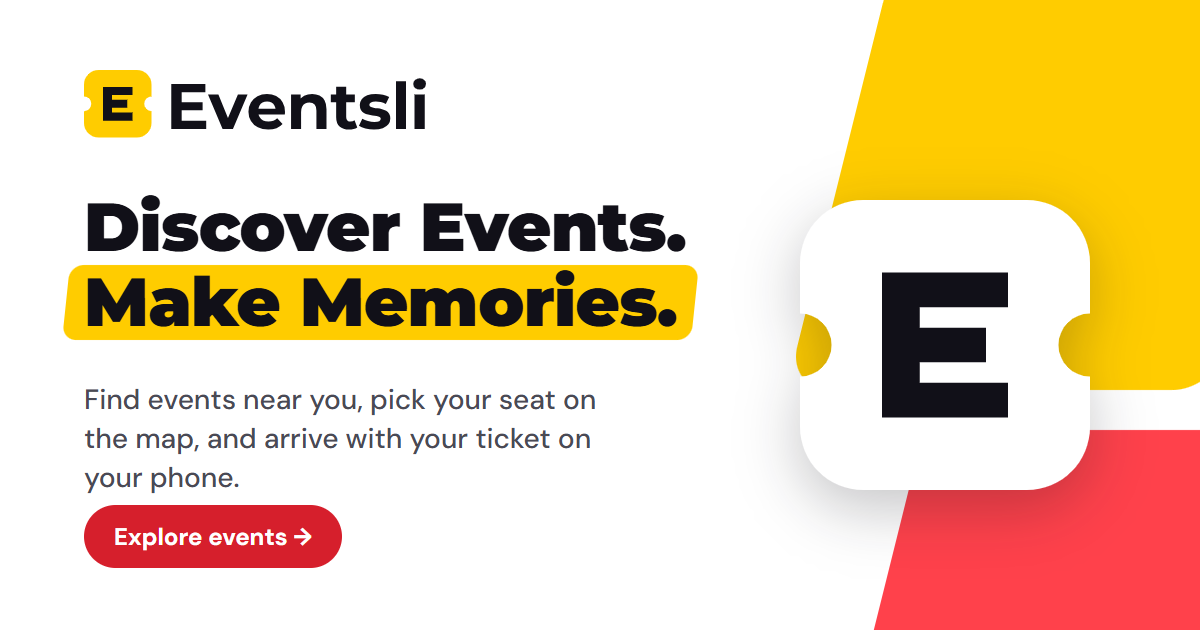
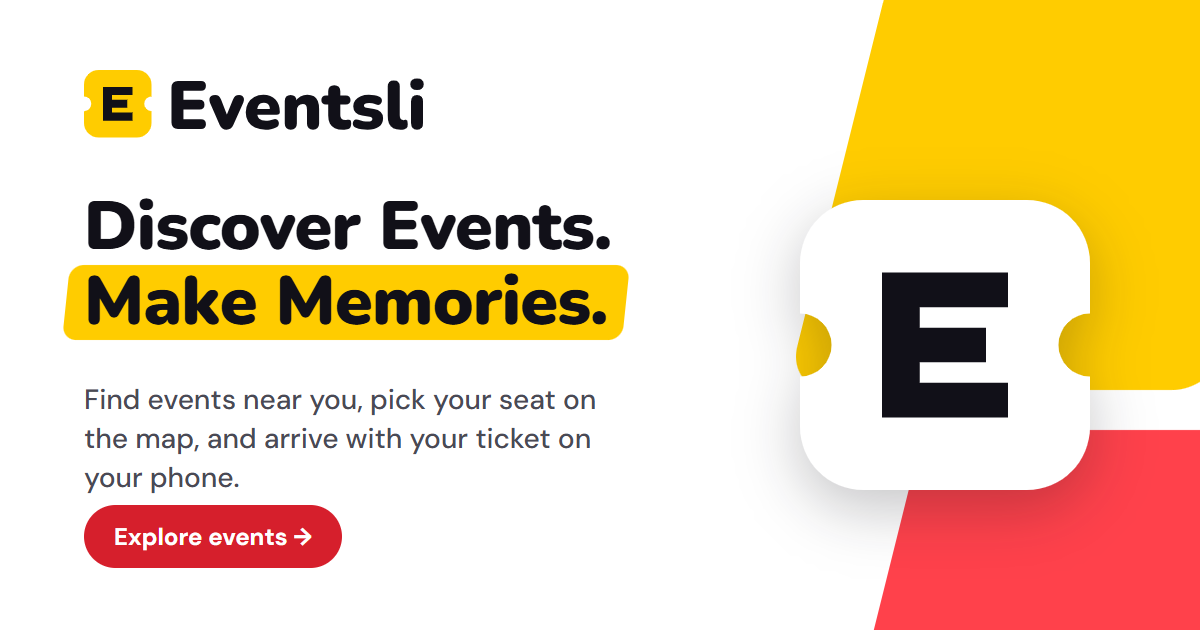
dsghb

Changed region(s): [[0.0617, 0.3016, 0.5858, 0.5429], [0.1542, 0.1206, 0.37, 0.2111]]

diff --git a/frontend/src/app/components/brand/wordmarkPath.js b/frontend/src/app/components/brand/wordmarkPath.js
@@ -1,19 +1,19 @@
 /**
  * The Eventsli wordmark as vector path data.
  *
- * GENERATED by scripts/brandLogo.js from Montserrat Bold, the face the site's
- * headings are set in (2026-11-15). Upright and calm: the E-ticket beside it
- * carries the character. Kept as paths, not text, so the word is the same on a
+ * GENERATED by scripts/brandLogo.js from Nunito Black, the face the site's
+ * headings are set in (2026-11-15). Rounded and friendly, echoing the ticket's
+ * corners. Kept as paths, not text, so the word is the same on a
  * machine without the font and takes its colour from a CSS role.
  *
  * TWO EXPORTS, ONE COLOUR. The word is near-black throughout; it is two paths
  * ("Events" and "li") because the print kit and the tests address the halves,
  * and a two-colour treatment would need nothing but CSS.
  */
-export const WORDMARK_VIEWBOX = '11 -111 554 113';
+export const WORDMARK_VIEWBOX = '8 -105 521 107';
 
 /** E, v, e, n, t, s. */
-export const WORDMARK_EVENTS = 'M87.5 0L11.6 0L11.6-98.0L85.7-98.0L85.7-79.8L34.2-79.8L34.2-18.2L87.5-18.2L87.5 0ZM79.7-40.9L32.5-40.9L32.5-58.5L79.7-58.5L79.7-40.9ZM145.6 0L123.1 0L91.4-75.3L114.0-75.3L140.3-10.5L129.1-10.5L156.4-75.3L177.4-75.3L145.6 0ZM222.3 1.1L222.3 1.1Q209.4 1.1 199.7-3.9Q190.0-9.0 184.7-17.7Q179.3-26.5 179.3-37.7L179.3-37.7Q179.3-49.0 184.6-57.8Q189.8-66.5 198.9-71.5Q208.0-76.4 219.5-76.4L219.5-76.4Q230.6-76.4 239.5-71.8Q248.4-67.1 253.5-58.3Q258.7-49.6 258.7-37.4L258.7-37.4Q258.7-36.1 258.6-34.5Q258.4-32.9 258.3-31.5L258.3-31.5L197.1-31.5L197.1-44.2L246.8-44.2L238.4-40.5Q238.4-46.3 236.0-50.7Q233.7-55.0 229.5-57.5Q225.3-59.9 219.7-59.9L219.7-59.9Q214.1-59.9 209.8-57.5Q205.5-55.0 203.1-50.6Q200.8-46.2 200.8-40.2L200.8-40.2L200.8-36.8Q200.8-30.7 203.5-26.0Q206.2-21.3 211.2-18.8Q216.2-16.4 222.9-16.4L222.9-16.4Q228.9-16.4 233.5-18.2Q238.0-20.0 241.8-23.7L241.8-23.7L253.4-11.1Q248.2-5.2 240.4-2.0Q232.5 1.1 222.3 1.1ZM293.7 0L271.9 0L271.9-75.3L292.7-75.3L292.7-54.5L288.8-60.8Q292.9-68.3 300.4-72.4Q308-76.4 317.7-76.4L317.7-76.4Q326.6-76.4 333.7-72.9Q340.8-69.3 344.8-62.0Q348.9-54.6 348.9-43.1L348.9-43.1L348.9 0L327.0 0L327.0-39.8Q327.0-48.9 323.1-53.2Q319.1-57.5 311.8-57.5L311.8-57.5Q306.6-57.5 302.5-55.4Q298.3-53.2 296.0-48.7Q293.7-44.2 293.7-37.2L293.7-37.2L293.7 0ZM398.0 1.1L398.0 1.1Q384.7 1.1 377.3-5.7Q369.9-12.5 369.9-25.9L369.9-25.9L369.9-92.0L391.7-92.0L391.7-26.2Q391.7-21.4 394.2-18.8Q396.8-16.2 401.1-16.2L401.1-16.2Q406.3-16.2 409.9-19.0L409.9-19.0L415.8-3.6Q412.4-1.3 407.8-0.1Q403.1 1.1 398.0 1.1ZM410.5-58.5L358.3-58.5L358.3-75.3L410.5-75.3L410.5-58.5ZM452.1 1.1L452.1 1.1Q442.4 1.1 433.5-1.2Q424.6-3.5 419.4-7.0L419.4-7.0L426.7-22.7Q431.9-19.5 439.0-17.4Q446.0-15.4 452.9-15.4L452.9-15.4Q460.5-15.4 463.6-17.2Q466.8-19.0 466.8-22.3L466.8-22.3Q466.8-24.9 464.3-26.3Q461.9-27.6 457.8-28.3Q453.7-29.0 448.9-29.7Q444.1-30.4 439.2-31.6Q434.3-32.8 430.2-35.1Q426.2-37.5 423.7-41.6Q421.3-45.6 421.3-52.1L421.3-52.1Q421.3-59.2 425.4-64.7Q429.5-70.1 437.4-73.3Q445.2-76.4 456.1-76.4L456.1-76.4Q463.8-76.4 471.8-74.8Q479.8-73.1 485.1-69.9L485.1-69.9L477.8-54.3Q472.4-57.5 466.8-58.7Q461.3-59.9 456.1-59.9L456.1-59.9Q448.8-59.9 445.5-58.0Q442.1-56.0 442.1-52.9L442.1-52.9Q442.1-50.1 444.6-48.7Q447.0-47.3 451.1-46.5Q455.1-45.6 460.0-45.0Q464.8-44.4 469.7-43.1Q474.6-41.9 478.6-39.6Q482.6-37.2 485.1-33.3Q487.6-29.3 487.6-22.8L487.6-22.8Q487.6-15.8 483.4-10.4Q479.2-5.0 471.3-2.0Q463.4 1.1 452.1 1.1Z';
+export const WORDMARK_EVENTS = 'M69.9 0L22.4 0Q15.8 0 12.4-3.4Q9.0-6.9 9.0-13.3L9.0-13.3L9.0-85.4Q9.0-91.8 12.4-95.3Q15.8-98.7 22.4-98.7L22.4-98.7L69.9-98.7Q74.9-98.7 77.4-96.2Q79.9-93.7 79.9-88.9L79.9-88.9Q79.9-84.0 77.4-81.4Q74.9-78.8 69.9-78.8L69.9-78.8L33.6-78.8L33.6-60.1L66.8-60.1Q71.7-60.1 74.3-57.5Q76.9-55.0 76.9-50.1L76.9-50.1Q76.9-45.2 74.3-42.7Q71.7-40.2 66.8-40.2L66.8-40.2L33.6-40.2L33.6-19.9L69.9-19.9Q74.9-19.9 77.4-17.3Q79.9-14.7 79.9-9.9L79.9-9.9Q79.9-5.0 77.4-2.5Q74.9 0 69.9 0L69.9 0ZM122.2 1.3L122.2 1.3Q117.3 1.3 113.9-1.2Q110.5-3.6 108.2-8.5L108.2-8.5L88.2-54.3Q86.5-58.5 87.1-62.2Q87.6-65.8 90.7-68.0Q93.7-70.1 99.0-70.1L99.0-70.1Q103.5-70.1 106.2-68.1Q108.9-66.1 111.2-60.2L111.2-60.2L125.3-23.8L120.5-23.8L135.4-60.3Q137.6-66.1 140.4-68.1Q143.2-70.1 148.1-70.1L148.1-70.1Q152.3-70.1 154.9-68.0Q157.5-65.8 158.1-62.2Q158.6-58.5 156.7-54.3L156.7-54.3L136.2-8.4Q134.1-3.5 130.7-1.1Q127.3 1.3 122.2 1.3ZM202.6 1.5L202.6 1.5Q190.0 1.5 180.8-2.9Q171.6-7.3 166.7-15.4Q161.8-23.5 161.8-34.6L161.8-34.6Q161.8-45.2 166.5-53.3Q171.2-61.3 179.4-65.9Q187.6-70.4 198.1-70.4L198.1-70.4Q205.8-70.4 212.1-68.0Q218.4-65.5 222.9-60.8Q227.4-56.1 229.7-49.6Q232.0-43.0 232.0-34.9L232.0-34.9Q232.0-32.1 230.4-30.7Q228.9-29.4 225.5-29.4L225.5-29.4L182.7-29.4L182.7-41.2L213.8-41.2L211.5-39.3Q211.5-44.5 210.1-47.7Q208.7-51.0 206.0-52.6Q203.3-54.3 199.2-54.3L199.2-54.3Q194.9-54.3 191.7-52.3Q188.6-50.3 186.9-46.3Q185.2-42.4 185.2-36.5L185.2-36.5L185.2-35.3Q185.2-25.3 189.6-21.1Q194.0-16.8 203.3-16.8L203.3-16.8Q206.4-16.8 210.4-17.6Q214.3-18.3 218.0-19.7L218.0-19.7Q221.6-21.1 224.3-20.2Q226.9-19.3 228.4-17.2Q229.9-15.0 230.0-12.3Q230.2-9.5 228.8-6.9Q227.4-4.3 224.1-2.9L224.1-2.9Q219.2-0.7 213.7 0.4Q208.2 1.5 202.6 1.5ZM254.4 1.3L254.4 1.3Q248.5 1.3 245.3-2.0Q242.1-5.2 242.1-11.3L242.1-11.3L242.1-57.7Q242.1-63.7 245.2-66.9Q248.4-70.1 254.2-70.1L254.2-70.1Q260.1-70.1 263.2-66.9Q266.3-63.7 266.3-57.7L266.3-57.7L266.3-51.1L264.7-56.8Q268.1-63.4 274.3-66.9Q280.6-70.4 288.5-70.4L288.5-70.4Q296.8-70.4 302.1-67.3Q307.4-64.1 310.1-57.5Q312.8-50.8 312.8-40.7L312.8-40.7L312.8-11.3Q312.8-5.2 309.5-2.0Q306.3 1.3 300.3 1.3L300.3 1.3Q294.3 1.3 291.1-2.0Q287.8-5.2 287.8-11.3L287.8-11.3L287.8-39.8Q287.8-46.1 285.7-48.7Q283.5-51.4 279.3-51.4L279.3-51.4Q273.7-51.4 270.3-47.8Q267.0-44.2 267.0-38.2L267.0-38.2L267.0-11.3Q267.0 1.3 254.4 1.3ZM362.3 1.5L362.3 1.5Q351.8 1.5 345.0-1.7Q338.2-4.9 334.9-11.4Q331.5-17.9 331.5-27.7L331.5-27.7L331.5-50.5L326.8-50.5Q322.3-50.5 319.8-52.9Q317.4-55.3 317.4-59.8L317.4-59.8Q317.4-64.3 319.8-66.6Q322.3-68.9 326.8-68.9L326.8-68.9L331.5-68.9L331.5-77.6Q331.5-83.7 334.7-86.9Q338.0-90.2 344.0-90.2L344.0-90.2Q350-90.2 353.2-86.9Q356.4-83.7 356.4-77.6L356.4-77.6L356.4-68.9L367.9-68.9Q372.5-68.9 375.0-66.6Q377.4-64.3 377.4-59.8L377.4-59.8Q377.4-55.3 375.0-52.9Q372.5-50.5 367.9-50.5L367.9-50.5L356.4-50.5L356.4-28.6Q356.4-23.4 358.9-20.9Q361.3-18.5 366.7-18.5L366.7-18.5Q368.6-18.5 370.4-18.9Q372.3-19.3 373.8-19.3L373.8-19.3Q376.0-19.5 377.4-18.0Q378.8-16.5 378.8-11.3L378.8-11.3Q378.8-7.1 377.6-4.3Q376.3-1.4 373.1-0.1L373.1-0.1Q371.1 0.6 367.8 1.1Q364.4 1.5 362.3 1.5ZM412.6 1.5L412.6 1.5Q406.4 1.5 400.1 0.6Q393.7-0.3 388.5-2.7L388.5-2.7Q385-4.1 383.5-6.4Q382.1-8.8 382.1-11.5Q382.2-14.1 383.7-16.3Q385.1-18.5 387.6-19.4Q390.0-20.3 393.1-19.2L393.1-19.2Q399-17.1 403.7-16.2Q408.4-15.3 412.7-15.3L412.7-15.3Q417.9-15.3 420.1-16.7Q422.4-18.2 422.4-20.6L422.4-20.6Q422.4-22.7 420.9-23.8Q419.4-24.9 416.8-25.3L416.8-25.3L401.2-27.9Q392.6-29.4 387.8-34.2Q383.0-39.1 383.0-46.9L383.0-46.9Q383.0-54.2 387.2-59.4Q391.3-64.7 398.5-67.6Q405.7-70.4 415.1-70.4L415.1-70.4Q421.4-70.4 426.6-69.5Q431.8-68.6 436.7-66.2L436.7-66.2Q439.7-65.0 441-62.6Q442.3-60.2 442.0-57.6Q441.7-55.0 440.2-52.9Q438.8-50.7 436.2-49.9Q433.7-49.1 430.4-50.3L430.4-50.3Q425.7-52.1 422.2-52.9Q418.6-53.8 415.5-53.8L415.5-53.8Q409.8-53.8 407.4-52.2Q405.0-50.7 405.0-48.3L405.0-48.3Q405.0-46.5 406.3-45.3Q407.5-44.1 410.2-43.7L410.2-43.7L425.7-41.0Q434.7-39.6 439.5-34.9Q444.4-30.2 444.4-22.3L444.4-22.3Q444.4-10.9 435.7-4.7Q427 1.5 412.6 1.5Z';
 
 /** l, i. */
-export const WORDMARK_LI = 'M521.5 0L499.7 0L499.7-103.9L521.5-103.9L521.5 0ZM562.2 0L540.4 0L540.4-75.3L562.2-75.3L562.2 0ZM551.3-85.8L551.3-85.8Q545.3-85.8 541.5-89.3Q537.7-92.8 537.7-98.0L537.7-98.0Q537.7-103.2 541.5-106.7Q545.3-110.2 551.3-110.2L551.3-110.2Q557.3-110.2 561.1-106.9Q564.9-103.6 564.9-98.4L564.9-98.4Q564.9-93.0 561.2-89.4Q557.5-85.8 551.3-85.8Z';
+export const WORDMARK_LI = 'M480.1 1.5L480.1 1.5Q466.6 1.5 460.3-5.7Q453.9-12.9 453.9-27.4L453.9-27.4L453.9-87.4Q453.9-93.5 457.1-96.7Q460.3-100.0 466.2-100.0L466.2-100.0Q472.2-100.0 475.5-96.7Q478.8-93.5 478.8-87.4L478.8-87.4L478.8-28.3Q478.8-23.1 480.8-20.7Q482.9-18.3 486.1-18.3L486.1-18.3Q487.1-18.3 488.1-18.6Q489.2-18.8 490.4-18.9L490.4-18.9Q492.8-18.9 494.0-17.1Q495.2-15.3 495.2-9.7L495.2-9.7Q495.2-4.8 493.2-2.3Q491.3 0.1 487.2 0.8L487.2 0.8Q486.1 1.0 484.0 1.3Q481.9 1.5 480.1 1.5ZM514.2 1.3L514.2 1.3Q508.3 1.3 505.1-2.2Q501.9-5.7 501.9-12.3L501.9-12.3L501.9-56.6Q501.9-63.1 505.1-66.6Q508.3-70.1 514.2-70.1L514.2-70.1Q520.2-70.1 523.5-66.6Q526.8-63.1 526.8-56.6L526.8-56.6L526.8-12.3Q526.8-5.7 523.6-2.2Q520.4 1.3 514.2 1.3ZM514.2-80.1L514.2-80.1Q507.6-80.1 504.1-83.2Q500.5-86.2 500.5-92.1L500.5-92.1Q500.5-97.9 504.1-100.9Q507.6-104.0 514.2-104.0L514.2-104.0Q521.1-104.0 524.6-100.9Q528.1-97.9 528.1-92.1L528.1-92.1Q528.1-86.2 524.6-83.2Q521.1-80.1 514.2-80.1Z';

diff --git a/frontend/scripts/brandLogo.js b/frontend/scripts/brandLogo.js
@@ -15,12 +15,13 @@
  * "more professional" than the playful marks it was compared with: a yellow
  * ticket — a rounded square with a notch in each side — with a near-black E in
  * it. The E's middle bar points at the right-hand notch, so the initial and the
- * product are one shape. The word beside it is upright Montserrat Bold: the
- * symbol carries the character, the word stays calm.
+ * product are one shape. The word beside it is Nunito Black (the owner found
+ * Montserrat "very formal"): rounded terminals that echo the ticket's corners,
+ * friendly without being a toy.
  *
  * DRAWN, not traced: rectangles, quarter-circle corners and two half-circle
  * notches on a 460-unit grid, exact at 16px and at 2,000. The word is outlined
- * from Montserrat Bold — the face the site's headings are set in — so the paths
+ * from Nunito Black — the face the site's headings are set in — so the paths
  * render identically on a machine without the font.
  * ═══════════════════════════════════════════════════════════════════════════ */
 const fs = require('node:fs');
@@ -58,16 +59,16 @@ function initial() {
 
 /* ── The word ─────────────────────────────────────────────────────────────── */
 
-async function montserrat700(opentype) {
+async function nunito900(opentype) {
   // An unknown user agent gets TrueType, which opentype.js reads directly.
-  const css = await (await fetch('https://fonts.googleapis.com/css2?family=Montserrat:wght@700', { headers: { 'user-agent': 'curl/8.0' } })).text();
+  const css = await (await fetch('https://fonts.googleapis.com/css2?family=Nunito:wght@900', { headers: { 'user-agent': 'curl/8.0' } })).text();
   const url = css.match(/url\((https:[^)]+)\)/)[1];
   return opentype.parse(await (await fetch(url)).arrayBuffer());
 }
 
 function buildWord(font) {
   const SIZE_PT = 140;                 // cap height ≈ 98 units
-  const TRACK = -0.01 * SIZE_PT;       // a hair tight, as display type is set
+  const TRACK = -0.005 * SIZE_PT;      // a hair tight, as display type is set
   const scale = SIZE_PT / font.unitsPerEm;
   const glyphs = font.stringToGlyphs('Eventsli');
   let x = 0;
@@ -93,7 +94,7 @@ function buildWord(font) {
 
 (async () => {
   const opentype = require('opentype.js');
-  const word = buildWord(await montserrat700(opentype));
+  const word = buildWord(await nunito900(opentype));
 
   fs.writeFileSync(path.join(BRAND, 'markPath.js'), `/**
  * The Eventsli mark — the E-ticket — as vector path data, on a ${SIZE}-unit grid.
@@ -123,9 +124,9 @@ export const MARK_INITIAL = '${initial()}';
   fs.writeFileSync(path.join(BRAND, 'wordmarkPath.js'), `/**
  * The Eventsli wordmark as vector path data.
  *
- * GENERATED by scripts/brandLogo.js from Montserrat Bold, the face the site's
- * headings are set in (2026-11-15). Upright and calm: the E-ticket beside it
- * carries the character. Kept as paths, not text, so the word is the same on a
+ * GENERATED by scripts/brandLogo.js from Nunito Black, the face the site's
+ * headings are set in (2026-11-15). Rounded and friendly, echoing the ticket's
+ * corners. Kept as paths, not text, so the word is the same on a
  * machine without the font and takes its colour from a CSS role.
  *
  * TWO EXPORTS, ONE COLOUR. The word is near-black throughout; it is two paths

diff --git a/frontend/src/app/globals.css b/frontend/src/app/globals.css
@@ -302,13 +302,14 @@
      so every rule that asks for them follows without being hunted down; the
      one place a monospace face still helps — digits a person copies, like a
      six-digit code — asks for `--es-font-code` by name. */
-  /* MONTSERRAT FOR HEADINGS (owner, 2026-11-15), DM Sans for everything a
+  /* NUNITO FOR HEADINGS (owner, 2026-11-15; Montserrat before it was "very
+     formal"), DM Sans for everything a
      person reads at length. The brand sheet sets its headlines and the
      wordmark in a heavy geometric face; DM Sans at 800 is close but rounder
      and quieter, and the sheet's "Discover Events." reads as a poster,
      not a paragraph. `--es-font-serif` is the legacy name every heading
      rule already asks for, so it points at the display face. */
-  --es-font-display: var(--font-montserrat), var(--es-font-sans);
+  --es-font-display: var(--font-nunito), var(--es-font-sans);
   --es-font-serif: var(--es-font-display);
   --es-font-mono:  var(--es-font-sans);
   --es-font-code:  var(--font-dm-mono), ui-monospace, 'Cascadia Code', Consolas, monospace;
@@ -2919,15 +2920,15 @@ body:has(.es-buybar) { padding-block-end: calc(5.5rem + var(--fx-safe-b)); }
 .es-logo__events,
 .es-logo__tagline { fill: var(--es-logo-ink); }
 .es-logo__li { fill: var(--es-logo-li); }
-/* In the word's own units (its viewBox is 113 tall). */
+/* In the word's own units (its viewBox is 107 tall). */
 .es-logo__tagline { font-family: var(--es-font-sans); font-size: 30px; font-weight: 600; letter-spacing: 0.1em; }
 .es-logo--lockup {
   align-items: flex-start;
   padding-block: calc(var(--es-logo-h) * 0.44);
   padding-inline-end: calc(var(--es-logo-h) * 0.44);
 }
-/* 164 / 113: the word's viewBox extended down by the tagline's line. */
-.es-logo--lockup .es-logo__word { height: calc(var(--es-logo-h) * 1.451); }
+/* 158 / 107: the word's viewBox extended down by the tagline's line. */
+.es-logo--lockup .es-logo__word { height: calc(var(--es-logo-h) * 1.477); }
 
 /* ── .es-tkt — the ticket, after the brand guide's "Digital ticket" ────
    ADDED 2026-10-16 (TicketStub.jsx). Three parts: a coral STUB with the
@@ -5285,7 +5286,7 @@ a.es-sponsor:hover { opacity: 0.7; }
    of the blue storefront review).
 
    White page. Since 2026-11-15 the approved homepage concept: yellow
-   highlights, coral calls to action, Montserrat headings. Every colour below is a ROLE, so the
+   highlights, coral calls to action, Nunito headings. Every colour below is a ROLE, so the
    dark theme follows without a second block. The only literals are the
    white chips and captions that sit on PHOTOGRAPHS (date badges, poster
    names, the play button, the closing panel's buttons) — a photograph is
@@ -8131,8 +8132,8 @@ body {
   text-rendering: optimizeLegibility;
 }
 
-/* Montserrat (2026-11-15). 800, and a touch less negative tracking than the
-   DM Sans headings had: Montserrat is wider set, and -0.02em on it at
+/* Nunito (2026-11-15). 800, and a touch less negative tracking than the
+   DM Sans headings had: Nunito's round forms close up, and -0.02em on it at
    display sizes pinches the counters of the bold forms. */
 h1, h2, h3, h4 {
   font-family: var(--es-font-display);

diff --git a/frontend/src/app/layout.jsx b/frontend/src/app/layout.jsx
@@ -1,5 +1,5 @@
 import { headers } from 'next/headers';
-import { DM_Sans, DM_Mono, Montserrat, Sacramento } from 'next/font/google';
+import { DM_Sans, DM_Mono, Nunito, Sacramento } from 'next/font/google';
 import SiteHeader from './components/SiteHeader';
 import SiteFooter from './components/SiteFooter';
 import './globals.css';
@@ -27,21 +27,22 @@ const dmSans = DM_Sans({
 });
 
 /**
- * THE HEADING FACE, 2026-11-15. The brand sheet sets its headlines and the
- * wordmark in a heavy geometric sans; the owner chose Montserrat for every
- * heading and kept DM Sans for body copy. 700 for small headings and panel
- * titles, 800 for section and page headings, 900 for the one display line.
+ * THE HEADING FACE, 2026-11-15: Nunito, the face the logo's word is drawn in.
+ * Montserrat came first and the owner found it "very formal"; Nunito's rounded
+ * terminals are friendly without being a toy, and echo the E-ticket's corners.
+ * DM Sans stays for body copy. 700 for small headings and panel titles, 800 for
+ * section and page headings, 900 for the one display line.
  */
-const montserrat = Montserrat({
+const nunito = Nunito({
   subsets: ['latin'],
   weight: ['700', '800', '900'],
-  variable: '--font-montserrat',
+  variable: '--font-nunito',
   display: 'swap',
 });
 
 /**
  * DM Serif Display is gone: the owner rejected the serif headline, and the
- * site is DM Sans for reading and Montserrat for headings. Mono remains for `--es-font-code` alone — the six
+ * site is DM Sans for reading and Nunito for headings. Mono remains for `--es-font-code` alone — the six
  * digit boxes, where a person copies characters one by one.
  */
 const dmMono = DM_Mono({
@@ -209,7 +210,7 @@ export default async function RootLayout({ children }) {
   await headers();
 
   return (
-    <html lang="en" className={`${dmSans.variable} ${montserrat.variable} ${dmMono.variable} ${script.variable}`}>
+    <html lang="en" className={`${dmSans.variable} ${nunito.variable} ${dmMono.variable} ${script.variable}`}>
       <head>
         {/*
           THE HERO IMAGE LIVES ON ANOTHER ORIGIN, and the browser cannot know

diff --git a/frontend/scripts/brandIcons.js b/frontend/scripts/brandIcons.js
@@ -26,7 +26,7 @@
  * card is the homepage concept's hero in miniature.
  *
  * NEEDS Playwright (`playwright`, or `playwright-core` driving the installed
- * Chrome) and network access to Google Fonts, which supplies Montserrat and
+ * Chrome) and network access to Google Fonts, which supplies Nunito and
  * DM Sans for the share card. Not part of `npm run check` for that reason.
  * ═══════════════════════════════════════════════════════════════════════════ */
 const fs = require('node:fs');
@@ -115,7 +115,7 @@ function gateTile(size, { radius = 0, safe = false } = {}) {
 function og() {
   return `<div style="position:relative;width:1200px;height:630px;background:#ffffff;font-family:'DM Sans';overflow:hidden">
     <div style="position:absolute;left:84px;top:70px">${lockup({ height: 52 })}</div>
-    <div style="position:absolute;left:84px;top:190px;width:680px;font-family:Montserrat;font-weight:900;font-size:68px;line-height:1.1;color:${INK};letter-spacing:-0.01em">
+    <div style="position:absolute;left:84px;top:190px;width:680px;font-family:Nunito;font-weight:900;font-size:68px;line-height:1.1;color:${INK};letter-spacing:-0.01em">
       <div>Discover Events.</div>
       <div><span style="display:inline-block;background:${YELLOW};border-radius:14px;padding:0 18px;margin-left:-18px;transform:skewX(-6deg)"><span style="display:inline-block;transform:skewX(6deg)">Make Memories.</span></span></div>
     </div>
@@ -172,7 +172,7 @@ async function launch() {
 
 async function main() {
   const faces = (await faceCss('family=DM+Sans:wght@500;600;700'))
-    + (await faceCss('family=Montserrat:wght@800;900'));
+    + (await faceCss('family=Nunito:wght@800;900'));
   const browser = await launch();
   try {
     for (const asset of ASSETS) {

diff --git a/mobile/src/app/_layout.tsx b/mobile/src/app/_layout.tsx
@@ -3,7 +3,7 @@ import { DMSans_400Regular } from '@expo-google-fonts/dm-sans/400Regular';
 import { DMSans_500Medium } from '@expo-google-fonts/dm-sans/500Medium';
 import { DMSans_600SemiBold } from '@expo-google-fonts/dm-sans/600SemiBold';
 import { DMSans_700Bold } from '@expo-google-fonts/dm-sans/700Bold';
-import { Montserrat_800ExtraBold } from '@expo-google-fonts/montserrat/800ExtraBold';
+import { Nunito_900Black } from '@expo-google-fonts/nunito/900Black';
 import { QueryClientProvider, useQuery } from '@tanstack/react-query';
 import * as Application from 'expo-application';
 import { useFonts } from 'expo-font';
@@ -56,7 +56,7 @@ startMonitoring();
 export default function RootLayout() {
   // A font that fails to load falls back to the system font; it must never
   // keep the door shut behind the splash screen.
-  const [fontsReady, fontError] = useFonts({ DMSans_400Regular, DMSans_500Medium, DMSans_600SemiBold, DMSans_700Bold, Montserrat_800ExtraBold });
+  const [fontsReady, fontError] = useFonts({ DMSans_400Regular, DMSans_500Medium, DMSans_600SemiBold, DMSans_700Bold, Nunito_900Black });
   const fontsLoaded = fontsReady || Boolean(fontError);
   const hydrated = useSession((s) => s.hydrated);
   const account = useSession((s) => s.account);

diff --git a/frontend/scripts/brandKit.js b/frontend/scripts/brandKit.js
@@ -15,7 +15,7 @@
  * playwright-core and an installed Chrome), as scripts/brandIcons.js does.
  *
  * THE WHITE / YELLOW / CORAL BRAND, 2026-11-15: the E-ticket (a yellow ticket
- * with a near-black E) and "Eventsli" in Montserrat Bold, near-black. The
+ * with a near-black E) and "Eventsli" in Nunito Black, near-black. The
  * ticket stays yellow in every colour version except one-colour print, where
  * the E is knocked out of a near-black ticket.
  * ═══════════════════════════════════════════════════════════════════════════ */

diff --git a/mobile/src/ui/Splash.tsx b/mobile/src/ui/Splash.tsx
@@ -28,7 +28,7 @@ export function Splash() {
 const styles = StyleSheet.create({
   screen: { flex: 1, backgroundColor: colors.surface },
   brand: { flex: 1, alignItems: 'center', justifyContent: 'center', paddingBottom: '42%' },
-  word: { fontFamily: 'Montserrat_800ExtraBold', fontSize: 46, lineHeight: 54, marginTop: space.lg },
+  word: { fontFamily: 'Nunito_900Black', fontSize: 46, lineHeight: 54, marginTop: space.lg },
   scanner: { fontSize: 24, lineHeight: 28, marginTop: -2 },
   tagline: { marginTop: space.xl, fontSize: 17, lineHeight: 24 },
   scene: { position: 'absolute', left: 0, right: 0, bottom: 0 },

diff --git a/frontend/test/logo.test.jsx b/frontend/test/logo.test.jsx
@@ -18,7 +18,7 @@ import { WORDMARK_EVENTS, WORDMARK_LI } from '../src/app/components/brand/wordma
 const read = (...p) => fs.readFileSync(path.join(process.cwd(), ...p), 'utf8');
 
 describe('the logo', () => {
-  test('the word is the generated Montserrat outline, in two halves', () => {
+  test('the word is the generated Nunito outline, in two halves', () => {
     // E v e n t s | l i — at least one closed outline per letter, and the
     // halves are separate shapes (the print kit and the CSS address them apart).
     expect(WORDMARK_EVENTS.match(/M/g).length).toBeGreaterThanOrEqual(6);

diff --git a/mobile/src/app/sign-in.tsx b/mobile/src/app/sign-in.tsx
@@ -143,7 +143,7 @@ const styles = StyleSheet.create({
   scroll: { paddingHorizontal: space.xl, paddingTop: space.xxl, paddingBottom: space.xl, gap: space.xl },
   brand: { alignItems: 'center', marginTop: space.lg, marginBottom: space.lg },
   intro: { gap: space.sm },
-  title: { fontFamily: 'Montserrat_800ExtraBold', fontSize: 28, lineHeight: 34, color: colors.text },
+  title: { fontFamily: 'Nunito_900Black', fontSize: 28, lineHeight: 34, color: colors.text },
   form: { gap: space.md },
   submit: { marginTop: space.sm },
   link: { paddingVertical: space.sm },

diff --git a/frontend/src/app/components/brand/Logo.jsx b/frontend/src/app/components/brand/Logo.jsx
@@ -8,7 +8,7 @@ import { WORDMARK_EVENTS, WORDMARK_LI, WORDMARK_VIEWBOX } from './wordmarkPath';
  *
  * THE E-TICKET, the owner's choice on 2026-11-15: a sunshine-yellow ticket (a
  * rounded square, notched on each side) with a near-black E on it; the word is
- * upright Montserrat Bold in the sheet's near-black. Both are generated paths — see
+ * Nunito Black in the sheet's near-black. Both are generated paths — see
  * scripts/brandLogo.js — not an <img> and not live text.
  *
  * THERE IS NO COLOUR PROP. Four CSS roles colour the logo (`--es-logo-mark`,

diff --git a/mobile/src/app/(door)/dashboard.tsx b/mobile/src/app/(door)/dashboard.tsx
@@ -364,7 +364,7 @@ const styles = StyleSheet.create({
     backgroundColor: 'rgba(6, 30, 32, 0.35)',
   },
   heroText: { paddingHorizontal: space.xl, paddingBottom: 56, gap: space.sm },
-  heroTitle: { fontFamily: 'Montserrat_800ExtraBold', fontSize: 27, lineHeight: 33, color: colors.white },
+  heroTitle: { fontFamily: 'Nunito_900Black', fontSize: 27, lineHeight: 33, color: colors.white },
   heroMeta: { flexDirection: 'row', alignItems: 'center', gap: 6 },
   liveChip: {
     flexDirection: 'row', alignItems: 'center', gap: 6, alignSelf: 'flex-start',
